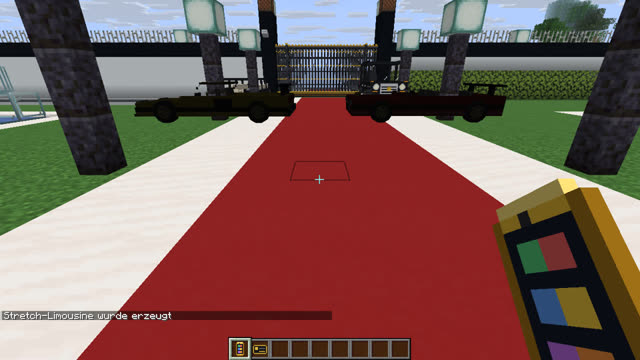
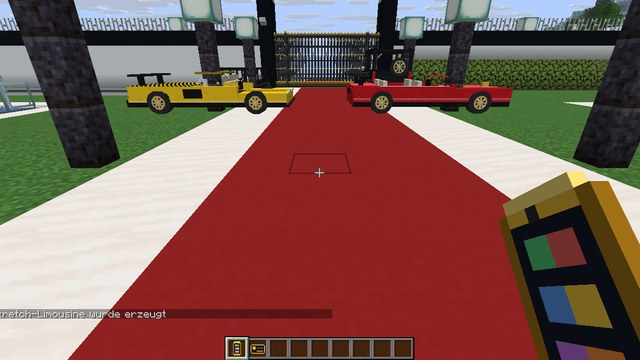
Version 0.3.3: Server-Version ab 1.21.9, schönere Darstellung ohne Mod, README-Bilder
Claude-Session: https://claude.ai/code/session_01Y2sSJbBbETjTDjiGSSJfSm

Verfasst mit Claude 🤖

diff --git a/README.md b/README.md
@@ -346,20 +346,24 @@ Gut zu wissen:
 
 Die Zahl hinter `+mc` muss **genau** deiner Version entsprechen. 1.21 bis 1.21.11 brauchen Java 21, 26.x braucht Java 25 (der offizielle Launcher bringt das passende Java mit).
 
-### 🖥 Server: Freunde spielen ohne Mod mit (Vorschau, Minecraft 1.21.10 bis 26.3)
+### 🖥 Server: Freunde spielen ohne Mod mit (Vorschau, Minecraft 1.21.9 bis 26.3)
 
 Auf einem Fabric-Server mit dieser Mod und der Bibliothek [Polymer](https://modrinth.com/mod/polymer) können Freunde mit ganz normalem Minecraft mitspielen, ohne etwas zu installieren:
 
 1. Fabric-Server aufsetzen, [Fabric API](https://modrinth.com/mod/fabric-api) und die passende Datei dieser Mod in `mods` legen.
-2. `polymer-bundled` für dieselbe Minecraft-Version ebenfalls in `mods` legen (für 26.3 z. B. `polymer-bundled-0.18.5+26.3.jar`, für 1.21.11 `0.15.2+1.21.11`).
+2. `polymer-bundled` für dieselbe Minecraft-Version ebenfalls in `mods` legen (für 26.3 z. B. `polymer-bundled-0.18.5+26.3.jar`, für 1.21.11 `0.15.2+1.21.11`, für 1.21.9 `0.14.2+1.21.9`).
 3. Server starten. Wer ohne Mod beitritt, bekommt automatisch ein Ressourcenpaket (annehmen).
 
-Ohne Mod sehen Spieler die Villa mit allen Möbeln, James, die Tänzerinnen, die Bodyguards (als große Türsteher im Smoking), Autos und Hubschrauber. Handy, Butler-Menü, Sicherheitszentrale, Tastenfeld, Aufzug, Flügel, Musikanlage und Überwachungskameras öffnen sich als Fenster. Autos fahren mit W/A/S/D, der Hubschrauber steigt mit der Leertaste und sinkt mit Strg. Eigene Musik, Spotify und der Fernseher gehen nur mit der Mod. Wer die Mod hat, sieht alles wie gewohnt und kann mit Freunden ohne Mod zusammen spielen (Polymer braucht man dafür nur auf dem Server).
+Ohne Mod sehen Spieler die Villa mit allen Möbeln, James, die Tänzerinnen, die Bodyguards (als große Türsteher im Smoking), Autos, Hubschrauber, Drehteller und Fernseher. Handy, Butler-Menü, Sicherheitszentrale, Tastenfeld, Aufzug, Flügel, Musikanlage, Fernseher und Überwachungskameras öffnen sich als Fenster. Autos fahren mit W/A/S/D, der Hubschrauber steigt mit der Leertaste und sinkt mit Strg. Eigene Musik und Spotify gehen nur mit der Mod; der Fernseher zeigt ohne Mod kein Vorschaubild, das Video öffnet sich dann im Browser. Wer die Mod hat, sieht alles wie gewohnt und kann mit Freunden ohne Mod zusammen spielen (Polymer braucht man dafür nur auf dem Server).
 
 <table>
 <tr>
-<td><img src="docs/bilder/server_villa.jpg" alt="Villa in normalem Minecraft"><br><sub>Die Villa in ganz normalem Minecraft</sub></td>
+<td><img src="docs/bilder/server_villa.jpg" alt="Villa in normalem Minecraft"><br><sub>Das Penthouse in ganz normalem Minecraft</sub></td>
 <td><img src="docs/bilder/server_autos.jpg" alt="Autos ohne Mod"><br><sub>Autos als echte Modelle, fahrbar mit W/A/S/D</sub></td>
+</tr>
+<tr>
+<td><img src="docs/bilder/server_garage.jpg" alt="Tiefgarage ohne Mod"><br><sub>Tiefgarage mit Drehteller</sub></td>
+<td><img src="docs/bilder/server_fernseher.jpg" alt="Fernseher-Menü ohne Mod"><br><sub>Fernseher: YouTube-Link eingeben, Video im Browser</sub></td>
 </tr>
 <tr>
 <td><img src="docs/bilder/server_zentrale.jpg" alt="Sicherheitszentrale als Fenster"><br><sub>Sicherheitszentrale als Fenster</sub></td>

diff --git a/.github/neu.md b/.github/neu.md
@@ -1,3 +1,8 @@
+### Neu in 0.3.3
+
+- **Server-Version (Vorschau) jetzt für Minecraft 1.21.9 bis 26.3** und deutlich schöner für Spieler ohne Mod: Böden, Teppiche und andere Mod-Blöcke sehen richtig aus (vorher teils wie Notenblöcke), Autos haben ihre Lackfarbe und fahren mit der Front voraus, Drehteller und Fernseher sind zu sehen. Ein Rechtsklick auf den Fernseher öffnet ein Fenster: YouTube-Link eingeben, Video im Browser ansehen oder ausschalten.
+- **Chauffeur:** Bleibt der Wagen auf einer Fahrt hängen, setzt James ihn ein Stück weiter vorn wieder auf die Straße und nie ins Wasser.
+
 ### Neu in 0.3.2
 
 - **Server-Version (Vorschau, 26.3):** Spieler mit Mod und Spieler ohne Mod können jetzt gemeinsam auf demselben Server spielen. In 0.3.1 flog ein Spieler mit Mod beim Betreten eines Servers mit Polymer wieder raus. Spieler ohne Mod sehen die Bodyguards jetzt als große Türsteher im Smoking mit Sonnenbrille statt als normale Eisengolems.

diff --git a/STAND.md b/STAND.md
@@ -210,6 +210,14 @@ _Zuletzt aktualisiert: 2026-10-26, 06:40 Uhr (Nachtschicht, Philip schläft)_
   die Welt des nächsten Laufs: „Failed to load level data“).
 - Offen: 1.21–1.21.8 (ohne Schaufensterpuppen, bis 1.21.5 ohne Dialoge), Paper-Plugin.
 
+## Version 0.3.3 (veröffentlicht 26.10. morgens)
+
+- Server-Version 1.21.9–26.3 mit allen Darstellungs-Fixes (siehe oben), Drehteller und Fernseher ohne Mod,
+  Chauffeur-Rettung. Vorher geprüft: alle 17 Versionen übersetzen, 26.3 ohne Mod (`vanilla_richtung`, `_auto`,
+  `_bedien`, `_figuren`, `_modelle`, `_club`, `_tv`) und mit Mod (`kurz03` alles OK), 1.21.9 ohne Mod
+  (`vanilla_figuren`, `vanilla_richtung`). README: Server-Abschnitt ab 1.21.9, neue Bilder (Penthouse, Autos,
+  Garage, Fernseher-Menü).
+
 ## Versionstest 0.3.1 (kurz03, alle 17 Versionen)
 
 - Überall OK: Handy-Geschenk, Lieferung, Mitarbeiter, Bodyguards, Kreisel, Fahrt ins Dorf (außer einmal 26.1.1:
